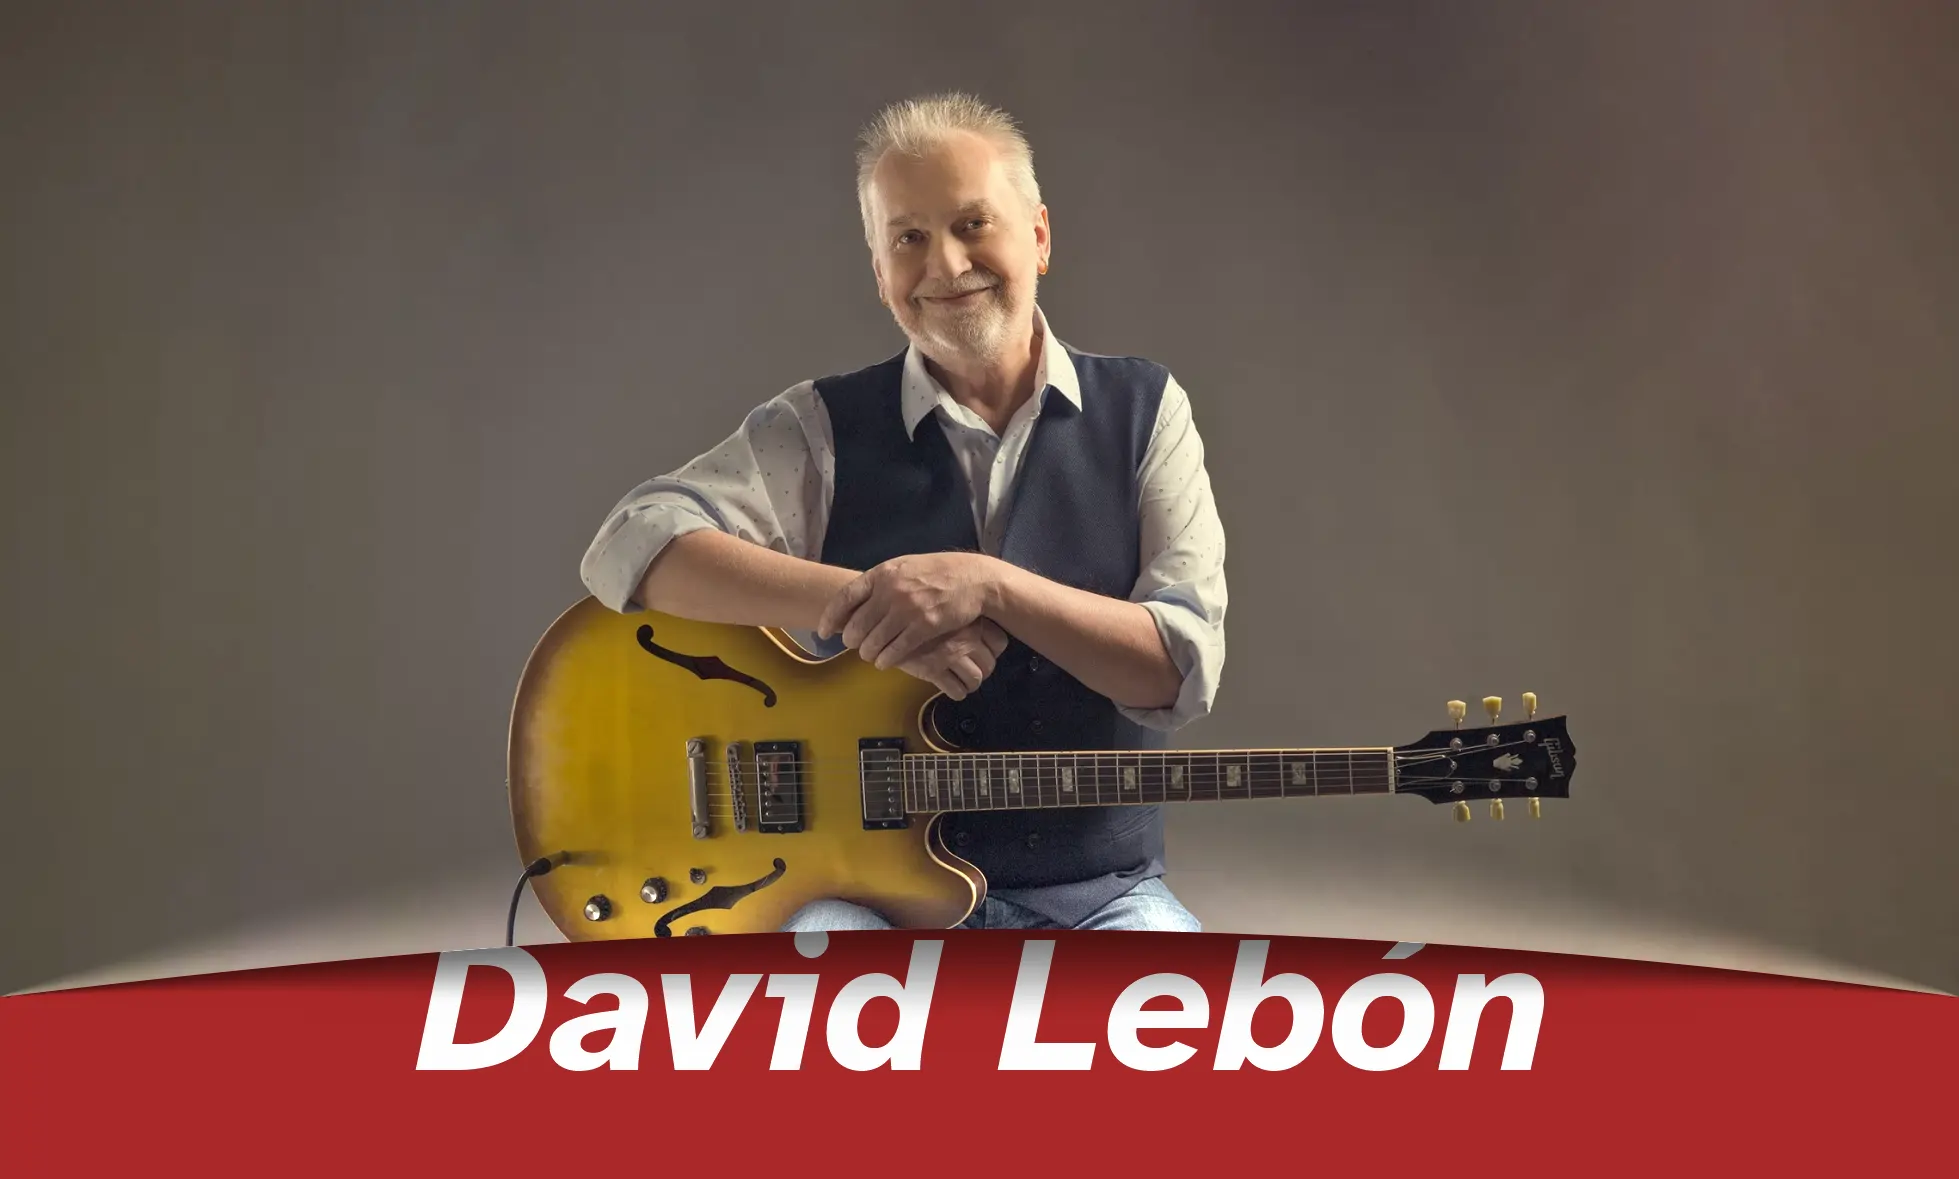
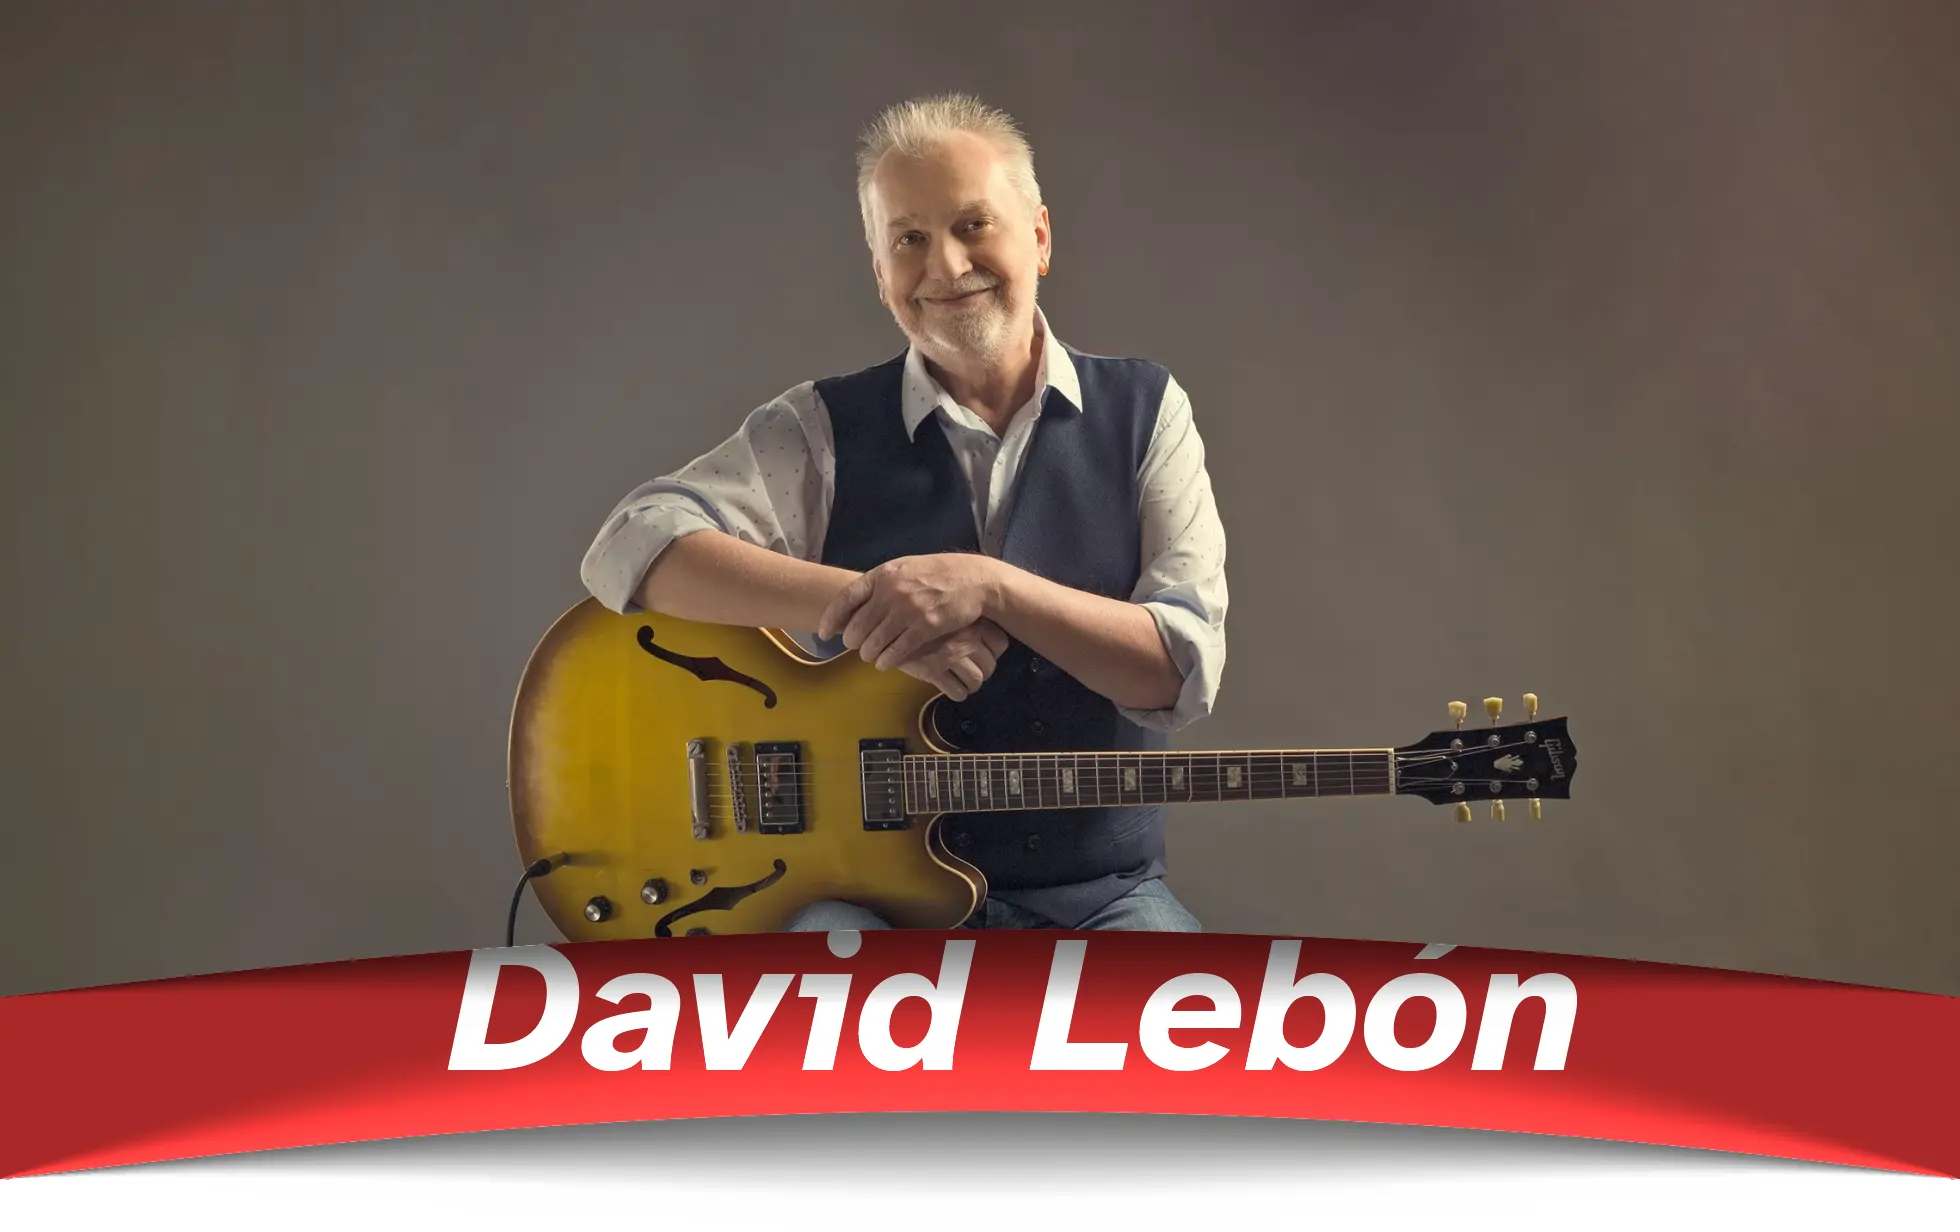
fin celular

Changed region(s): [[0.0, 0.1527, 1.0, 1.0], [0.4359, 0.0611, 0.5294, 0.1221]]

diff --git a/charly.html b/charly.html
@@ -10,14 +10,15 @@
     <title>Charly García</title>
 </head>
 <body>
-    <section>
-        <img src="./img/charly_g.webp" alt="Charly García" style="width: 100%;">
-        <article>
+    <main>
+        <img src="./img/charly_g.webp" alt="Charly García" width="100%">
+        <article class="bio">
             <p>Nacido en 1951 en Buenos Aires, es el corazón creativo de Serú Girán. Multiinstrumentista y compositor prodigioso, su genio musical fue fundamental para el éxito de la banda. Las letras de García, a menudo crípticas y cargadas de metáforas, reflejaban hábilmente la realidad sociopolítica de la Argentina de los años 70 y 80, esquivando la censura.</p>
             <p>Sus constantes experimentaciones musicales y su presencia escénica carismática lo convirtieron en una figura icónica del rock argentino. Su capacidad para componer canciones memorables, junto con su virtuosismo en los teclados, definieron en gran medida el sonido de Serú Girán. Luego de Serú, Charly continuó una exitosa carrera solista.</p>
         </article>
-    </section>
-    <footer>
+    </main>
+    <footer class="pie2">
+        <img src="./img/sombra_pie.webp" alt="pie" width="100%">
         <p>© 2024, Página dedicada a Serú Girán</p>
     </footer>
 </body>

diff --git a/pedro.html b/pedro.html
@@ -10,14 +10,15 @@
     <title>Pedro Aznar</title>
 </head>
 <body>
-    <section>
+    <main>
         <img src="./img/pedro_g.webp" alt="Pedro Aznar" style="width: 100%;">
-        <article>
+        <article class="bio">
             <p>Nacido en 1959 en Buenos Aires, era el miembro más joven de Serú Girán, pero su talento musical estaba a la par del resto. Reconocido como uno de los bajistas más virtuosos de Latinoamérica, Aznar aportaba líneas melódicas complejas que añadían profundidad y sofisticación a la música de la banda.</p>
             <p>Más allá de su destreza con el bajo, Aznar es un músico multifacético. Sus habilidades como vocalista, arreglista y compositor enriquecieron enormemente el sonido de Serú Girán, aportando una influencia jazzística que contribuyó a la fusión de estilos característica del grupo. Después de su etapa en la banda, Aznar desarrolló una exitosa carrera internacional, incluyendo su participación en el grupo de Pat Metheny.</p>
         </article>
-    </section>
-    <footer>
+    </main>
+    <footer class="pie2">
+        <img src="./img/sombra_pie.webp" alt="pie" width="100%">
         <p>© 2024, Página dedicada a Serú Girán</p>
     </footer>
 </body>

diff --git a/moro.html b/moro.html
@@ -10,14 +10,15 @@
     <title>Oscar Moro</title>
 </head>
 <body>
-    <section>
+    <main>
         <img src="./img/moro_g.webp" alt="Oscar Moro" style="width: 100%;">
-        <article>
+        <article class="bio">
             <p>(1948-2006) fue el baterista de Serú Girán y una figura clave en la historia del rock argentino. Aportó la base rítmica sólida y versátil sobre la cual se construían las complejas estructuras musicales de la banda. Su estilo de batería, preciso y creativo, se adaptaba perfectamente a la diversidad de géneros que Serú Girán exploraba.</p>
             <p>Antes de unirse a la banda, Moro ya era un músico respetado, habiendo formado parte de grupos emblemáticos como Los Gatos y Color Humano. Su experiencia y profesionalismo fueron fundamentales para dar cohesión al sonido de Serú Girán. Moro no solo era un excelente ejecutante, sino también un innovador en su instrumento, incorporando elementos de jazz y fusión en su forma de tocar.</p>
         </article>
-    </section>
-    <footer>
+    </main>
+    <footer class="pie2">
+        <img src="./img/sombra_pie.webp" alt="pie" width="100%">
         <p>© 2024, Página dedicada a Serú Girán</p>
     </footer>
 </body>

diff --git a/estilos.css b/estilos.css
@@ -5,7 +5,9 @@
 
 html body {
     font-family: "Atkinson Hyperlegible", sans-serif;
-    font-size: 0.8em;
+    font-size: 0.85em;
+    background-color: rgb(170, 40, 40);
+    
 }
 
 header {
@@ -27,10 +29,14 @@ section {
     flex-direction: column;
     padding: 8px 0 8px 0;
 }
+main{
+    background-color: white;
+}
 article {
     display: flex;
     align-items: center;
-    box-shadow: inset -4px 4px 20px 0px rgba(46, 46, 46, 0.7)
+    box-shadow: inset -4px 4px 20px 0px rgba(46, 46, 46, 0.7);
+    padding-right: 8px;
 }
 article:hover{
     display: flex;
@@ -96,14 +102,34 @@ article .info p{
     line-height: 1.2;
 }
 
-footer{
+.bio {
+    display: inline-block;
+    background-color: white;
+    padding: 20px;
+    box-shadow: none;
+}
+.bio:hover {
+    display: inline-block;
+    box-shadow: none;
+}
+
+.pie1{
     display: flex;
     background-color: rgb(170, 40, 40);
     color: white;
     height: 60px;
+    justify-content: center;
     align-items: center;
     padding: 12px;
     position:sticky;
     z-index: 1;
+}
 
+.pie2 p{
+    display: flex;
+    background-color: rgb(170, 40, 40);
+    color: white;
+    height: auto;
+    align-items: center;
+    justify-content: center;
 }

diff --git a/david.html b/david.html
@@ -10,14 +10,15 @@
     <title>David Lebón</title>
 </head>
 <body>
-    <section>
+    <main>
         <img src="./img/david_g.webp" alt="David Lebón" style="width: 100%;">
-        <article>
+        <article class="bio">
             <p>Nacido en 1952 en Buenos Aires, es reconocido como uno de los mejores guitarristas de Argentina. Su estilo de guitarra fluido y melódico fue crucial para definir el sonido característico de Serú Girán. Además de su destreza instrumental, Lebón es un talentoso compositor y vocalista. Sus habilidades vocales complementaban perfectamente la voz de Charly García, creando armonías distintivas que se convirtieron en una marca registrada de la banda.</p>
             <p>Lebón contribuyó con varias composiciones propias al repertorio de Serú Girán. Después de Serú Girán, Lebón ha mantenido una respetada carrera solista y ha colaborado con numerosos artistas, consolidando su estatus como leyenda del rock argentino.</p>
         </article>
-    </section>
-    <footer>
+    </main>
+    <footer class="pie2">
+        <img src="./img/sombra_pie.webp" alt="pie" width="100%">
         <p>© 2024, Página dedicada a Serú Girán</p>
     </footer>
 </body>

diff --git a/index.html b/index.html
@@ -52,7 +52,7 @@
         </article>
         
     </section>
-    <footer>
+    <footer class="pie1">
         <p>© 2024, Página dedicada a Serú Girán</p>
     </footer>
 </body>
